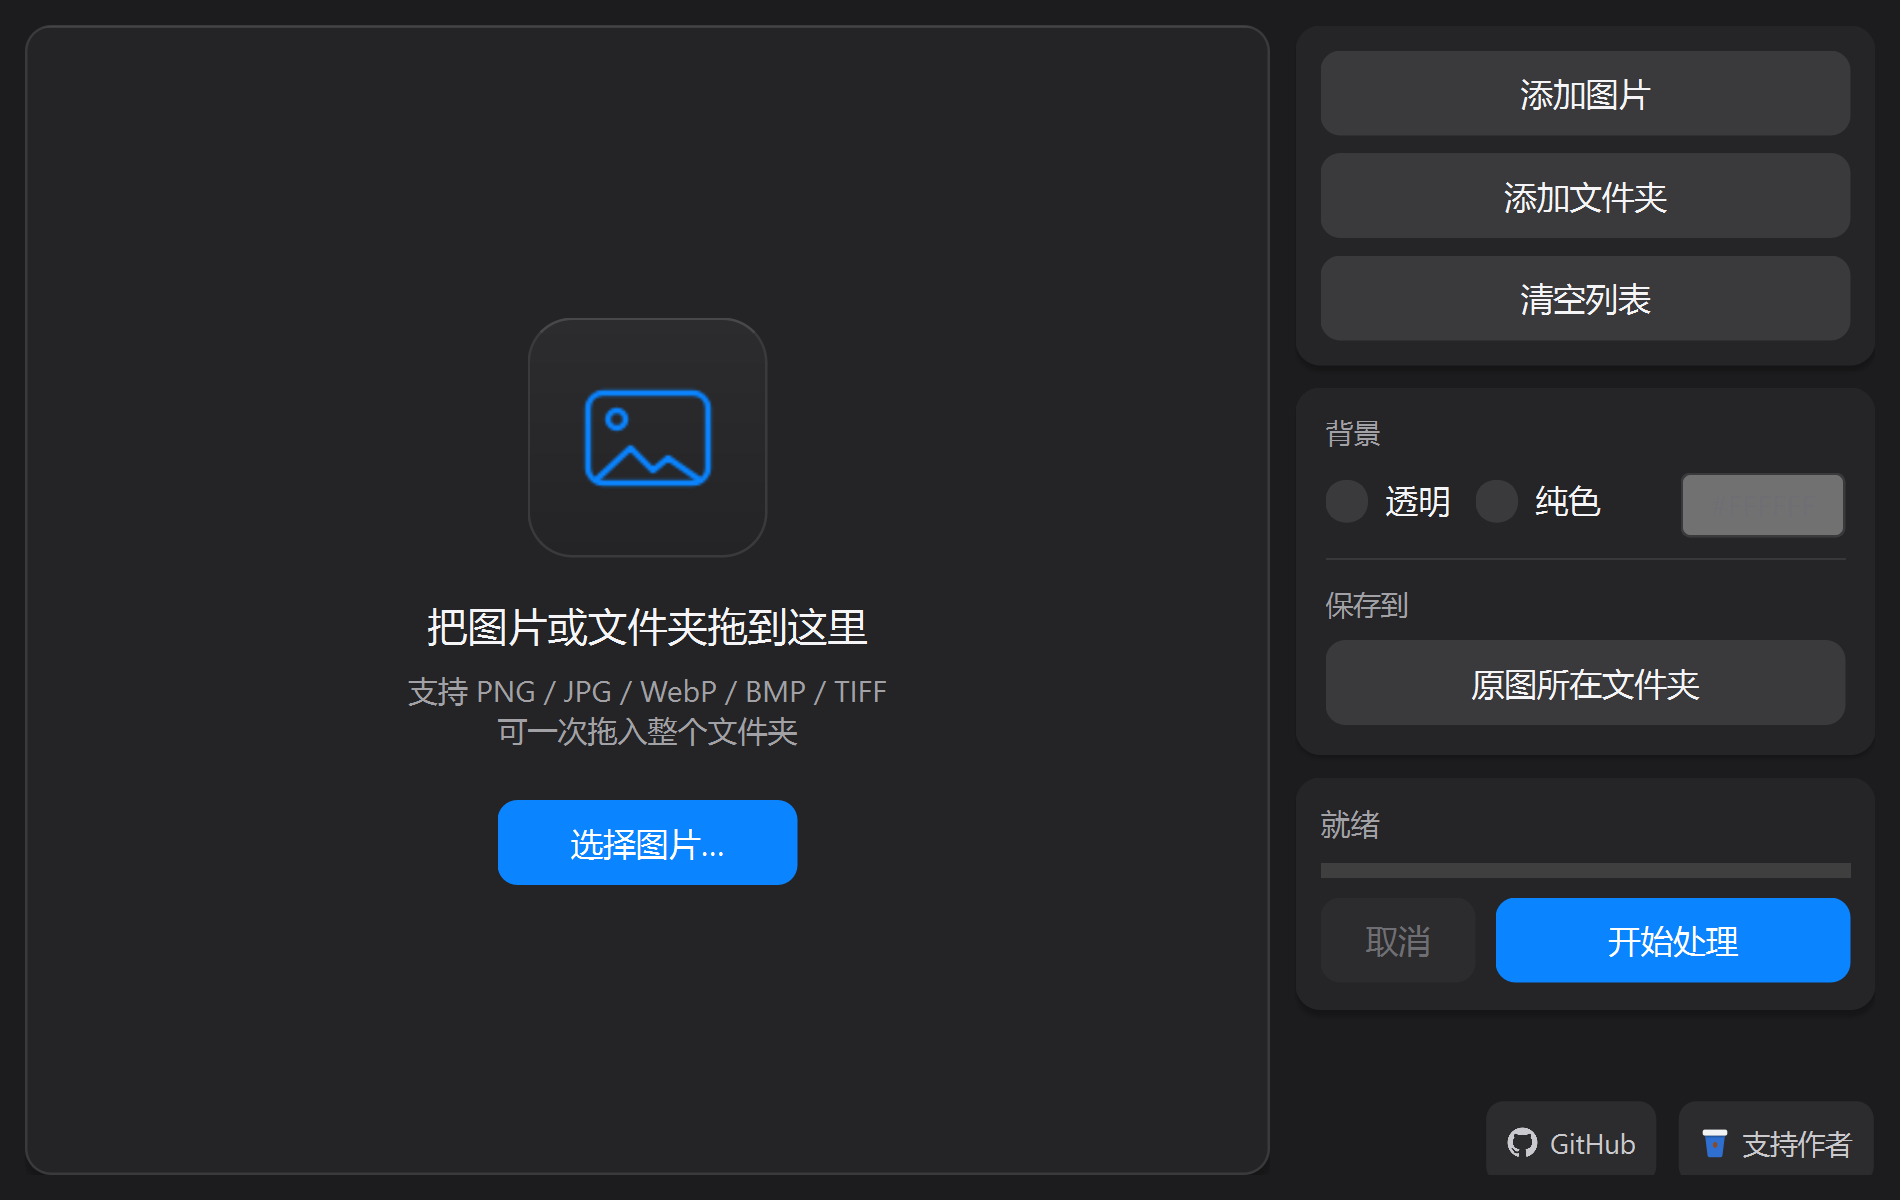
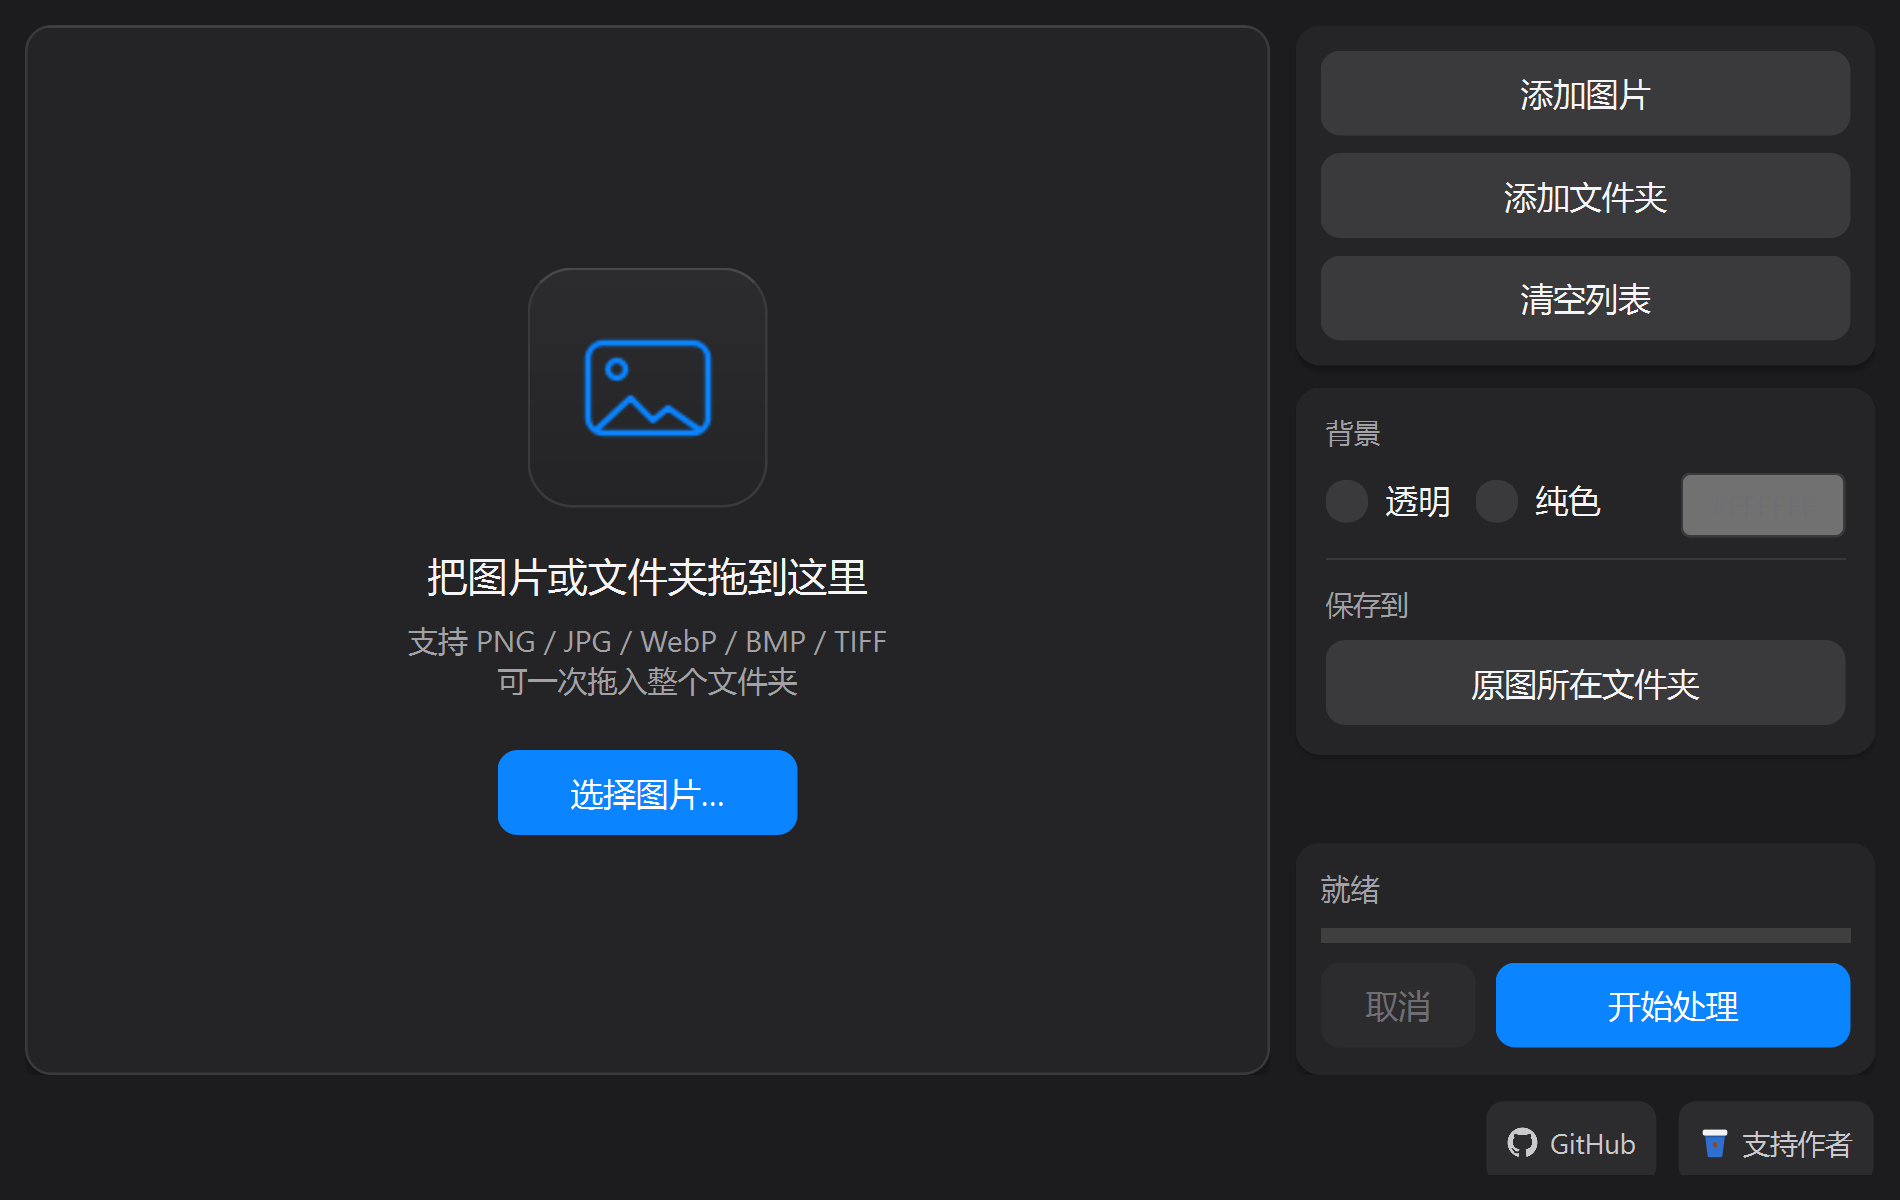
ui: 底部入口独立成行，动作卡片贴列底——左侧卡片下边与「开始处理」下边对齐；v0.6.5

diff --git a/app/ui/main_window.py b/app/ui/main_window.py
@@ -372,9 +372,12 @@ class MainWindow(QMainWindow):
         central.setAttribute(Qt.WA_StyledBackground, True)
         self.setCentralWidget(central)
 
-        body = QHBoxLayout(central)
+        body = QVBoxLayout(central)
         body.setContentsMargins(10, 10, 10, 10)
-        body.setSpacing(10)
+        body.setSpacing(6)
+
+        row = QHBoxLayout()
+        row.setSpacing(10)
 
         # ---------------- 左：拖拽条 +（空状态拖拽区 ⇄ 任务列表）
         left = QVBoxLayout()
@@ -393,10 +396,16 @@ class MainWindow(QMainWindow):
         self.center_stack.addWidget(self.tree)
         left.addWidget(self.center_stack, 1)
 
-        body.addLayout(left, 1)
+        row.addLayout(left, 1)
 
         # ---------------- 右：菜单区（工具 / 背景 / 保存到 / 动作）
-        body.addWidget(self._build_sidebar())
+        row.addWidget(self._build_sidebar())
+        body.addLayout(row, 1)
+
+        # 底部入口单独成行：这样左右两栏的下边能落在同一条线上——
+        # 左侧卡片底边 = 「开始处理」底边，视线不会被 34px 的链接行错开。
+        self.action_bar = FooterBar()
+        body.addWidget(self.action_bar)
 
         self._build_actions()
 
@@ -422,10 +431,11 @@ class MainWindow(QMainWindow):
         return tree
 
     def _build_sidebar(self) -> QWidget:
-        """右侧菜单区：工具按钮 + 背景 + 保存到 + 状态/进度/动作 + 两个入口。
+        """右侧菜单区：工具按钮 + 背景 + 保存到 + 状态/进度/动作。
 
         整列定宽（SIDEBAR_W）：宽度跟着内容变会让人每次开窗都在重新找按钮。
         竖向顺序即操作顺序——先加图，再选背景和保存位置，最后点开始。
+        底部的 GitHub / 支持作者不在这列里（见 _build_ui 的底部行）。
         """
         side = QWidget()
         side.setFixedWidth(SIDEBAR_W)
@@ -491,13 +501,11 @@ class MainWindow(QMainWindow):
         action_box.addWidget(self.status_label)
         action_box.addWidget(self.progress)
         action_box.addLayout(button_row)
-        column.addWidget(self.action_row)
 
+        # 空白放在参数与动作之间，动作卡片永远贴着列底——它的下边于是和左侧
+        # 卡片的下边齐平；空白若留在列尾，两栏的下边就会差出一整行的高度。
         column.addStretch(1)
-
-        # 两个入口贴在列底：位置仍是窗口右下角
-        self.action_bar = FooterBar()
-        column.addWidget(self.action_bar)
+        column.addWidget(self.action_row)
         return side
 
     def _build_actions(self) -> None:
